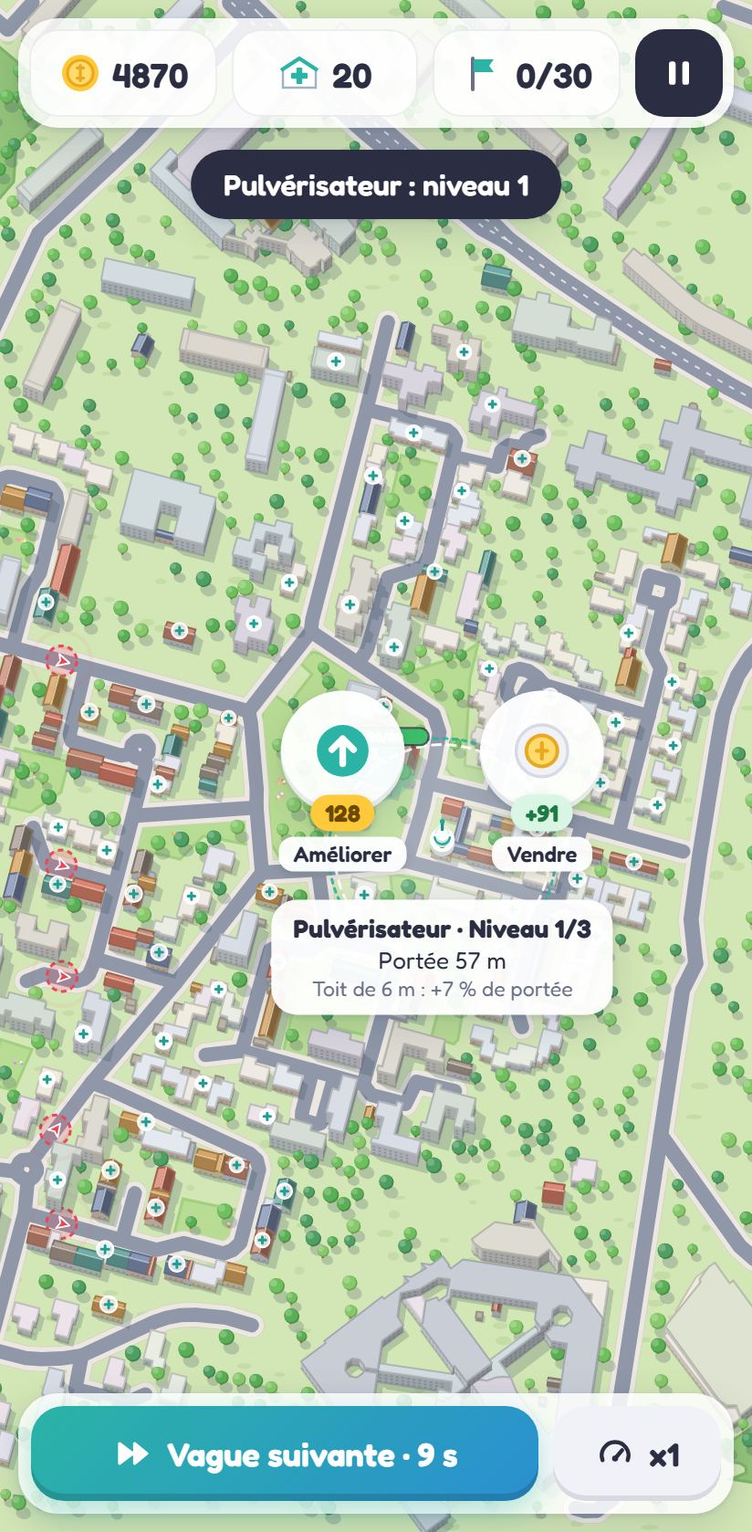
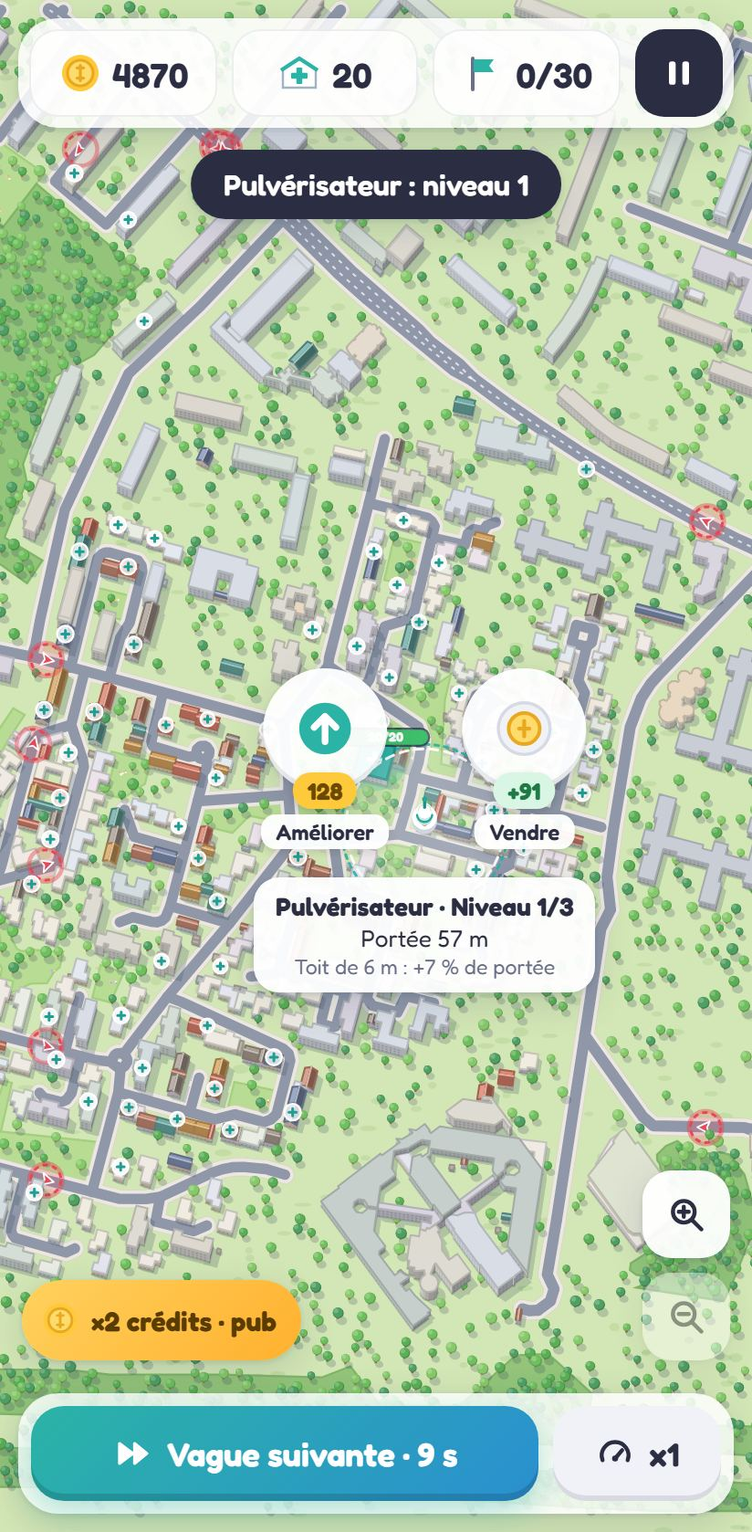
Met à jour la documentation et les captures (zoom, entrées, jalon 3)
- README : état jalon 3, APK Android, comment jouer (zoom, gemmes,
  publicités, sauvegarde), décisions du jalon 3 et du zoom / des
  entrées venant de l'extérieur, chiffres de la carte réimportée et
  simulation refaite (joueur moyen : vague 14,2 sur les cartes types).
- Configuration : osm.graphMargin, osm.entryLead, sections progression
  et ads.
- Captures : zoom, accueil avec progression, améliorations, paramètres,
  publicité de test.

diff --git a/scripts/captures.ts b/scripts/captures.ts
@@ -126,6 +126,41 @@ async function main(): Promise<void> {
     report.performance = { enemies, fps: Math.round(fps * 10) / 10, renderMs: Math.round(renderMs * 100) / 100 };
     await shot(page, '8-perf-150-virus');
 
+    // Zoom : deux crans de « + » pendant une vague.
+    await open(page, '?debug');
+    await hook(page, (h) => h.start());
+    await hook(page, (h) => h.autoBuild());
+    await hook(page, (h) => h.fastForward(16));
+    await page.getByRole('button', { name: 'Zoomer', exact: true }).click();
+    await page.getByRole('button', { name: 'Zoomer', exact: true }).click();
+    await page.waitForTimeout(300);
+    await shot(page, '9-zoom');
+
+    // Améliorations permanentes et paramètres, avec une progression déjà entamée.
+    await page.evaluate(() =>
+      localStorage.setItem(
+        'streetdefense:v1:progress',
+        JSON.stringify({ version: 1, gems: 64, upgrades: { degats: 2, credits: 1 }, records: { villagexpo: { bestWave: 17, bestScore: 52000, plays: 6, lastPlayed: '2026-10-25' } } }),
+      ),
+    );
+    await open(page, '');
+    await shot(page, '10-accueil-progression');
+    await page.getByRole('button', { name: 'Améliorations' }).click();
+    await page.waitForTimeout(300);
+    await shot(page, '11-ameliorations');
+    await page.getByRole('button', { name: 'Retour' }).click();
+    await page.getByRole('button', { name: 'Paramètres' }).click();
+    await page.getByRole('button', { name: 'Copier mon code' }).click();
+    await page.waitForTimeout(300);
+    await shot(page, '12-parametres');
+
+    // Publicité de test (web) : boost de crédits avant la première vague.
+    await open(page, '?debug');
+    await hook(page, (h) => h.start());
+    await page.getByRole('button', { name: /crédits/ }).click();
+    await page.waitForTimeout(400);
+    await shot(page, '13-pub-test');
+
     report.pageErrors = errors;
     await writeFile(join(outDir, 'rapport.json'), `${JSON.stringify(report, null, 2)}\n`);
     console.log(JSON.stringify(report, null, 2));

diff --git a/README.md b/README.md
@@ -4,7 +4,7 @@ Tower defense mobile (portrait, une main) joué dans les rues d'un vrai quartier
 Des **virus** stylisés entrent dans le quartier par toutes les rues qui y mènent ; tu les neutralises avec des **dispositifs sanitaires** installés sur les toits, pour protéger le **bâtiment central**.
 Cahier des charges complet : [`docs/cahier-des-charges.md`](docs/cahier-des-charges.md).
 
-**État : jalon 2 + révision 2.** La carte du jeu est un vrai quartier : **Villagexpo**, à Saint-Michel-sur-Orge (Essonne), importé d'OpenStreetMap. Quatre dispositifs, cinq virus, améliorations, revente, boss, équilibrage vérifié par simulation.
+**État : jalon 3.** La carte du jeu est un vrai quartier : **Villagexpo**, à Saint-Michel-sur-Orge (Essonne), importé d'OpenStreetMap, avec zoom. Quatre dispositifs, cinq virus, améliorations, revente, boss ; gemmes et améliorations permanentes, sauvegarde de la partie, écrans d'accueil, publicités de **test**, application Android.
 
 Données cartographiques **© OpenStreetMap contributors**, sous licence [ODbL](https://www.openstreetmap.org/copyright).
 
@@ -16,10 +16,23 @@ Le site est publié automatiquement par GitHub Actions à chaque modification de
 
 - **Mode test** : https://vernieradrien-gif.github.io/MapsDefender/?debug (5 000 crédits au départ, pour atteindre vite la fin de partie).
 - **Carte de démonstration** (l'ancienne carte dessinée à la main) : https://vernieradrien-gif.github.io/MapsDefender/?demo
+- Sur le web, les publicités sont remplacées par un écran « Publicité de test » de 3 secondes.
+
+### Application Android (APK de test)
+
+L'APK est construit par GitHub Actions (workflow « APK Android ») à chaque pull request et à chaque modification de `main` :
+
+1. onglet **Actions** du dépôt → workflow **APK Android** → dernière exécution réussie ;
+2. en bas de la page, artefact **streetdefense-debug-apk** (il faut être connecté à GitHub) : un zip qui contient `app-debug.apk` ;
+3. sur le téléphone, ouvrir `app-debug.apk` et autoriser l'installation depuis cette source.
+
+L'appli affiche les vraies publicités AdMob **de test** de Google (bannière « Test Ad », vidéo récompensée, interstitiel) et, dans l'Union européenne, le formulaire de consentement au premier lancement.
 
 ## Comment jouer
 
-- Touche **Jouer**. Tu as 10 s de préparation avant la vague 1.
+- **Accueil** : choisis la carte (Villagexpo ou la démo, avec ton record), puis **Jouer**. Si une partie est en cours, **Reprendre la partie** la relance à la dernière vague terminée.
+- Tu as 10 s de préparation avant la vague 1.
+- **Zoom** : pince avec deux doigts, ou utilise les boutons **+ / −** en bas à droite ; fais glisser un doigt pour déplacer la carte.
 - Touche un **toit marqué d'un ⊕** près d'une rue (ou un **socle** au sol) : un menu en arc propose les 4 dispositifs. Un dispositif trop cher est grisé.
   - **Pulvérisateur** (50) : tire vite, petits dégâts, une cible.
   - **Diffuseur** (100) : lance une capsule qui éclate en nuage désinfectant (dégâts de zone), lent.
@@ -27,11 +40,15 @@ Le site est publié automatiquement par GitHub Actions à chaque modification de
   - **Purificateur** (75) : champ qui ralentit de 40 % les virus à portée (sans dégâts).
 - Plus le toit est **haut**, plus la portée est grande (+1,2 % par mètre, jusqu'à +25 %) ; un socle ne donne aucun bonus.
 - Touche un dispositif posé : sa **portée** s'affiche (et, en pointillés, celle du niveau suivant), avec deux boutons : **Améliorer** (3 niveaux) et **Vendre** (70 % de ce qu'il t'a coûté).
-- Les virus entrent par les **cercles rouges** au bord de la carte et empruntent toutes les rues jusqu'à la **base** (toit bleu-vert à croix blanche, avec sa jauge de PV). Chaque virus qui l'atteint lui retire des PV (1 à 5 selon le virus). La base a 20 PV.
+- Les virus arrivent **de l'extérieur de la carte**, par toutes les rues qui entrent dans le quartier (un **cercle rouge** marque chaque entrée), et empruntent toutes les rues jusqu'à la **base** (toit bleu-vert à croix blanche, avec sa jauge de PV). Chaque virus qui l'atteint lui retire des PV (1 à 5 selon le virus). La base a 20 PV.
 - Les virus : **Virus** (rouge), **Variant** (orange, rapide), **Amas** (violet, résistant), **Blindé** (gris-bleu, lent, gros dégâts à la base) et, toutes les 10 vagues, le **Méga-virus**, qui se divise en 3 Amas quand on le neutralise.
 - Chaque virus neutralisé rapporte des crédits ; chaque vague terminée rapporte un bonus de 10 + 2 × numéro de vague.
-- **Vague suivante** lance la prochaine vague sans attendre ; **x1 / x2 / x3** change la vitesse ; **⏸** met en pause.
-- Victoire après la vague 30, défaite si la base n'a plus de PV. Le score s'affiche dans les deux cas.
+- Entre deux vagues, le bouton **×2 crédits · pub** double les gains de la vague suivante contre une publicité.
+- **Vague suivante** lance la prochaine vague sans attendre ; **x1 / x2 / x3** change la vitesse ; **⏸** met en pause (et permet de revenir à l'accueil, la partie est gardée).
+- Victoire après la vague 30, défaite si la base n'a plus de PV. En cas de défaite, **Continuer** (une fois par partie, contre une publicité) remet la base à 10 PV.
+- En fin de partie, tu gagnes des **gemmes** selon ton score (**Doubler** contre une publicité). Elles s'échangent sur l'écran **Améliorations** contre des bonus permanents.
+- **Paramètres** : code texte pour copier ta progression sur un autre appareil, réinitialisation, politique de confidentialité.
+- Sur Android, le bouton **Retour** met en pause ou ferme le menu ouvert ; il quitte l'appli seulement depuis l'accueil.
 
 ## Développement
 
@@ -47,19 +64,30 @@ npm run captures   # captures Playwright (Pixel 7) dans docs/captures/ et mesure
 
 `npm run captures` demande une fois `npx playwright install chromium`.
 
+Application Android (Capacitor), si l'on veut la construire sur son ordinateur (JDK 21 et SDK Android, par exemple ceux d'Android Studio) :
+
+```
+npm run build
+npx cap sync android                         # copie dist/ dans le projet Android
+cd android && ./gradlew assembleDebug        # APK dans android/app/build/outputs/apk/debug/
+```
+
 Organisation du code (détails dans [`CLAUDE.md`](CLAUDE.md)) :
 
 ```
 src/
-  game/     simulation pure : Game, vagues, économie, tourelles, ciblage, adaptation à la carte, joueurs automatiques
+  game/     simulation pure : Game, vagues, économie, tourelles, ciblage, adaptation à la carte,
+            progression permanente (gemmes), instantané de sauvegarde, joueurs automatiques
   geo/      graphe des rues et itinéraires, OSM (projection, simplification, bâtiments), assemblage de carte,
             carte réelle (maps/villagexpo.json), carte de démonstration, générateur de quartiers types
-  render/   Canvas 2D pseudo-3D : ville, virus, dispositifs, effets
-  ui/       HUD, menus radiaux (construction, amélioration/revente), écrans (DOM au-dessus du canvas)
-  ads/      interface showRewarded / showInterstitial (factice sur le web)
-  storage/  accès localStorage protégé
+  render/   Canvas 2D pseudo-3D : caméra (zoom), ville, virus, dispositifs, effets
+  ui/       HUD, gestes (pincer, glisser), menus radiaux, écrans d'accueil, améliorations, paramètres, fin de partie
+  ads/      interface des publicités : AdMob (Android, identifiants de test) ou fausse publicité (web), règles de rythme
+  storage/  localStorage protégé, progression versionnée, partie sauvegardée
   config/   balance.json : tout l'équilibrage et les règles de carte (documenté dans src/config/README.md)
   i18n/     textes (fr.json)
+public/     confidentialite.html (politique de confidentialité)
+android/    projet Android généré par Capacitor
 scripts/    import-osm.ts, simulate.ts, captures.ts (lancés avec tsx)
 docs/       cahier des charges, captures d'écran
 ```
@@ -70,20 +98,54 @@ Le jeu reçoit une **carte** (`GameMap` dans `src/game/types.ts`) : itinéraires
 
 Choix faits sans validation explicite, à revoir si besoin.
 
+### Jalon 3 : écrans, sauvegarde, publicités, Android
+
+- **Gemmes** : gagnées en fin de partie, ⌊0,18 × √score⌋. Le score grandit beaucoup plus vite que les vagues (points × numéro de vague) : une formule proportionnelle au score donnait des centaines de gemmes par partie. Avec la racine, 10 000 points donnent 18 gemmes et 40 000 points 36 ; une partie du joueur automatique « moyen » sur Villagexpo (vague 26 à 29) en rapporte 70 à 80. L'arbre complet coûte 698 gemmes, soit une dizaine de bonnes parties.
+- **Améliorations permanentes** : un arbre à deux rangs.
+  - **Désinfectant renforcé** : +5 % de dégâts par niveau, 5 niveaux (8, 16, 30, 50, 80 gemmes).
+  - **Budget de départ** : +25 crédits au départ par niveau, 5 niveaux (mêmes prix).
+  - **Dispositif offert** : un Pulvérisateur gratuit de plus par niveau, 3 niveaux (25, 50, 90), après Budget de départ niveau 2. C'est ma lecture de « +1 emplacement initial » du cahier des charges : tous les emplacements sont libres dès le départ, donc on offre plutôt le premier dispositif.
+  - **Buses longue portée** : +4 % de portée par niveau, 3 niveaux (25, 50, 90), après Désinfectant renforcé niveau 2.
+  - L'équilibrage (simulation) se fait sans amélioration permanente, comme le demande le cahier des charges.
+- **Sauvegarde** : la partie est enregistrée à chaque fin de vague (cahier des charges), et aussi quand l'appli passe en arrière-plan ou quand on revient à l'accueil depuis la pause. On reprend à l'identique (même tirage aléatoire, mêmes virus en jeu). La sauvegarde est effacée en fin de partie ; une sauvegarde abîmée ou d'une autre carte est ignorée (message).
+- **Progression** (`localStorage`, clé `streetdefense:v1:progress`) : JSON versionné avec migration : gemmes, améliorations, records par lieu (meilleure vague, meilleur score, nombre de parties), réglages, compteurs des publicités. Le choix de vitesse du jalon 1 est repris. Les champs abîmés sont réparés un par un plutôt que de tout effacer.
+- **Export / import** : code texte `SD1.<données>.<somme de contrôle>` à copier-coller dans Paramètres ; l'import remplace gemmes, améliorations et records, et garde les réglages de l'appareil.
+- **Écrans** : accueil (cartes avec record, Jouer ou Reprendre, gemmes, Améliorations, Paramètres, Aide), améliorations, paramètres (progression, confidentialité, choix publicitaires sur Android, à propos), aide, pause (Reprendre, Recommencer, Accueil), fin de partie (score, vague, gemmes, Continuer, Doubler, Rejouer, Accueil, Partager). « Cartes récentes » du cahier des charges : la liste des cartes avec leur record ; elle grandira au jalon 4 avec les adresses. Le choix du lieu par adresse et l'écran de chargement viendront au jalon 4.
+- **Partager** : partage natif du téléphone (texte avec le lieu, la vague et le score), sinon copie dans le presse-papiers. Le lien « Défier un ami » et l'image de score viendront au jalon 5.
+- **Publicités** (§ 6), toutes avec les identifiants de **test** de Google, et **jamais pendant une vague** :
+  - **Continuer** : une fois par partie, base remise à 10 PV, la vague en cours continue.
+  - **Doubler les gemmes** : une fois par partie.
+  - **Boost ×2 crédits** : proposé seulement quand aucun virus n'est en jeu ; il double les récompenses de la vague suivante.
+  - **Interstitiel** : au retour à l'accueil après une partie (pas sur « Rejouer »), au plus toutes les 3 minutes, jamais après la première partie du jour.
+  - **Bannière** : seulement sur l'accueil, sur Android.
+  - Sur le web, une fausse publicité de 3 s (« Publicité de test ») ; la fermer avant la fin ne donne pas la récompense.
+  - Le jeu reste figé tant que la publicité est ouverte, et la récompense n'est donnée qu'à sa fermeture (sur Android, l'appel d'affichage d'AdMob se termine dès la récompense, publicité encore à l'écran).
+- **Consentement RGPD** : formulaire UMP de Google au premier lancement (seulement là où il est requis, Espace économique européen). S'il n'a pas pu s'afficher (réseau lent), il est redemandé avant la publicité suivante. Il se rouvre depuis Paramètres → Mes choix publicitaires (Android).
+- **Politique de confidentialité** : `public/confidentialite.html`, publiée avec le site (https://vernieradrien-gif.github.io/MapsDefender/confidentialite.html) : stockage sur l'appareil, AdMob et consentement, Nominatim/Overpass (l'adresse saisie leur sera envoyée au jalon 4), GPS seulement à l'appui sur « Ma position », hébergement GitHub Pages.
+- **Android** : Capacitor 8, identifiant `io.github.vernieradrien.streetdefense`, portrait. Modules : `@capacitor-community/admob` (publicités et consentement), `@capacitor/app` (bouton Retour). L'identifiant d'application AdMob de test est dans `AndroidManifest.xml`. Le jeu fonctionne sans réseau (la carte est dans l'appli) ; seules les publicités en ont besoin.
+- **APK** : APK de test (debug, non signé pour le Play Store) construit par `.github/workflows/android.yml`. La version signée viendra au jalon 6 (publication). Vérifié sur un émulateur Android 15 : jeu, consentement, bannière, vidéo récompensée de test, reprise de la partie, bouton Retour. **Pas encore vérifié sur un vrai téléphone.**
+- **Version** : 0.3.0, affichée dans Paramètres.
+
+### Zoom et virus venant de l'extérieur
+
+- **Zoom** de 1× (toute la zone visible) à 4×, centré sous les doigts ; boutons + / − ; molette sur ordinateur. Glisser déplace la carte (un débord de 50 px est permis au bord). Un toucher reste un toucher tant que le doigt bouge de moins de 10 px. Pendant le geste, le décor déjà dessiné est simplement agrandi, puis redessiné net à la fin ; seul ce qui est visible est redessiné.
+- **Zone agrandie** à 500 × 900 m (au lieu de 350 × 660), grâce au zoom. La longueur moyenne des itinéraires passe à **775 m** : la cible de 600 m du cahier des charges est atteinte.
+- **Virus venant de l'extérieur** : le réseau des rues est construit sur la zone plus 220 m tout autour. Les entrées sont les bouts de ce réseau élargi, hors de la zone ; les virus démarrent 60 m avant le bord de la zone, sur la rue qui y entre, et le cercle rouge marque l'endroit où la rue franchit le bord. Les rues extérieures ne servent qu'à arriver : « toutes les rues sont empruntées » se compte sur les rues de la zone.
+- **De tous les côtés** : 10 entrées, au nord (3), à l'est (2) et à l'ouest (5), 23 itinéraires. **Aucune entrée au sud** : au sud du Villagexpo, OpenStreetMap ne montre que la voie ferrée et des champs, sans rue qui traverse. Le test de la carte exige des entrées sur au moins 3 côtés.
+- La carte de démonstration et les quartiers générés pour la simulation ont aussi des rues d'entrée qui commencent hors de la carte (100 m).
+
 ### Carte réelle : Villagexpo (Saint-Michel-sur-Orge)
 
-- **Import** : `npm run import-map` fait une requête Nominatim (« Villagexpo, Saint-Michel-sur-Orge », qui renvoie le Hall du Villagexpo, 48,6298 N / 2,3249 E) puis une seule requête Overpass sur l'emprise de la zone et de son décor, avec deux miroirs de secours (overpass.kumi.systems, overpass.private.coffee). Les deux réponses sont gardées dans `scripts/.cache/` (non versionné) ; `--offline` les rejoue sans réinterroger les serveurs. Données réelles du 24/10/2026 : 475 éléments.
-- **Zone de jeu** : un rectangle portrait de **350 × 660 m** centré sur le lieu géocodé, au lieu d'un cercle de 400 m de rayon : la carte entière tient sur l'écran d'un téléphone (environ 1,15 px par mètre sur un Pixel 7) sans zoom ni déplacement. Un décor de 70 m est dessiné autour.
-- **Longueur moyenne des itinéraires : 408 m au lieu de 600 m** (écart au cahier des charges). Une zone de 500 × 940 m atteindrait 653 m, mais l'échelle tomberait à 0,8 px par mètre, trop petit sans zoom. Le zoom et le déplacement de la carte sont à prévoir au jalon 4, qui pourra alors agrandir la zone. En attendant, l'adaptation à la carte compense (moins de virus, moins de crédits au départ).
+- **Import** : `npm run import-map` fait une requête Nominatim (« Villagexpo, Saint-Michel-sur-Orge », qui renvoie le Hall du Villagexpo, 48,6298 N / 2,3249 E) puis une seule requête Overpass sur l'emprise de la zone, de son décor et du réseau extérieur, avec deux miroirs de secours (overpass.kumi.systems, overpass.private.coffee). Les deux réponses sont gardées dans `scripts/.cache/` (non versionné) ; `--offline` les rejoue sans réinterroger les serveurs. Données réelles du 25/10/2026 : 1 451 éléments.
+- **Zone de jeu** : un rectangle portrait de **500 × 900 m** centré sur le lieu géocodé, au lieu d'un cercle de 400 m de rayon : à 1×, la carte entière tient sur l'écran d'un téléphone ; le zoom permet de voir le détail. Un décor de 90 m est dessiné autour.
 - **Base** : le bâtiment le plus imposant ou central (score = emprise × hauteur / (1 + (distance au centre / 80 m)²), parmi les bâtiments proches d'une rue) : c'est le **Hall du Villagexpo**. Il est relié à la rue la plus proche en coupant le tronçon à l'endroit le plus proche (plutôt qu'au carrefour le plus proche, parfois à plus de 100 m).
-- **Entrées** : les 5 extrémités de rues coupées par le bord de la zone. 12 itinéraires.
-- **Toutes les rues sont empruntées… sauf les impasses** : 34 tronçons sur 48 (2,1 km sur 2,8 km de réseau). Les 14 autres sont des impasses de plus de 30 m (Villagexpo en compte beaucoup) : on ne peut pas les emprunter sans demi-tour, donc sans repasser par un carrefour. Elles restent dessinées. `coverRoutes` cherche un itinéraire exact (calcul de flot) quand le plus court accès coupe la suite : seules les rues réellement impossibles à emprunter restent de côté (vérifié par un test exhaustif sur 60 quartiers aléatoires).
-- **Simplification (§ 4)** : plus grande composante connexe, impasses de moins de 30 m supprimées, Douglas-Peucker à 3 m sur les itinéraires. La fusion des nœuds à moins de 8 m ne fusionne que des carrefours reliés par une rue (deux impasses voisines non reliées ne sont pas raccordées). Les entrées au bord de la zone ne sont jamais déplacées ni supprimées. Les rues dessinées gardent leur tracé fin (0,5 m).
-- **Bâtiments réels** : 1 216 bâtiments sur 1 230 sont étiquetés `building=yes`, et seuls 4 ont un nombre d'étages. Le type est donc déduit des étiquettes, puis du nom (école, gymnase, hall, église… = bâtiment public ; « Résidence » = immeuble ; « Centre commercial » = commerce), puis de la surface : abri sous 25 m², maison sous 250 m², immeuble sous 1 500 m², grand bâtiment au-delà. Hauteur : `height`, sinon niveaux × 3 m, sinon 6 m (maison), 12 m (immeuble), 9 m (public), 7 m (commerce), 2,6 m (abri). Une maison dont l'emprise remplit au moins 88 % de son rectangle englobant a un toit à deux pans posé sur ce rectangle ; toutes les autres formes gardent leur vraie emprise avec un toit plat. Les abris de jardin n'accueillent pas de tourelle.
+- **Toutes les rues sont empruntées… sauf les impasses** : 60 tronçons sur 84 dans la zone (5,2 km sur 6,7 km de réseau). Les autres sont des impasses de plus de 30 m (Villagexpo en compte beaucoup) : on ne peut pas les emprunter sans demi-tour, donc sans repasser par un carrefour. Elles restent dessinées. `coverRoutes` cherche un itinéraire exact (calcul de flot) quand le plus court accès coupe la suite : seules les rues réellement impossibles à emprunter restent de côté (vérifié par un test exhaustif sur 60 quartiers aléatoires).
+- **Simplification (§ 4)** : plus grande composante connexe, impasses de moins de 30 m supprimées, Douglas-Peucker à 3 m sur les itinéraires. La fusion des nœuds à moins de 8 m ne fusionne que des carrefours reliés par une rue (deux impasses voisines non reliées ne sont pas raccordées). Les nœuds au bord de la zone et au-delà ne sont jamais déplacés ni supprimés. Les rues dessinées gardent leur tracé fin (0,5 m).
+- **Bâtiments réels** : presque tous sont étiquetés `building=yes`, et très peu ont un nombre d'étages. Le type est donc déduit des étiquettes, puis du nom (école, gymnase, hall, église… = bâtiment public ; « Résidence » = immeuble ; « Centre commercial » = commerce), puis de la surface : abri sous 25 m², maison sous 250 m², immeuble sous 1 500 m², grand bâtiment au-delà. Hauteur : `height`, sinon niveaux × 3 m, sinon 6 m (maison), 12 m (immeuble), 9 m (public), 7 m (commerce), 2,6 m (abri). Une maison dont l'emprise remplit au moins 88 % de son rectangle englobant a un toit à deux pans posé sur ce rectangle ; toutes les autres formes gardent leur vraie emprise avec un toit plat. Les abris de jardin n'accueillent pas de tourelle.
 - **Emplacements** : 60 toits (le maximum), au milieu du toit même pour un bâtiment en L ou en U.
-- **Arbres** : générés (718), pas importés.
-- **Fichier** : `src/geo/maps/villagexpo.json`, 146 Ko (28 Ko compressé), coordonnées arrondies à 10 cm, avec la requête, la date des données et la licence. La carte est validée au chargement ; si elle est invalide, la carte de démonstration la remplace (message sur l'accueil). `?demo` force la carte de démonstration.
-- **Mention « © OpenStreetMap contributors »** sur l'écran d'accueil et dans ce README.
+- **Décor** : 530 bâtiments, 83 rues, 20 surfaces ; arbres générés (1 855), pas importés.
+- **Fichier** : `src/geo/maps/villagexpo.json`, 249 Ko, coordonnées arrondies à 10 cm, avec la requête, la date des données et la licence. La carte est validée au chargement ; si elle est invalide, la carte de démonstration la remplace (message sur l'accueil). `?demo` force la carte de démonstration.
+- **Mention « © OpenStreetMap contributors »** sur l'écran d'accueil, dans Paramètres → À propos et dans ce README.
 
 ### Révision 2 : thème sérieux
 
@@ -98,22 +160,21 @@ Choix faits sans validation explicite, à revoir si besoin.
 
 - **Améliorations** : passer au niveau n (1 à 3) coûte coût × 1,6^n (Pulvérisateur : 80, 128, 205). Chaque niveau donne +60 % de dégâts, +15 % de cadence et +6 % de portée ; pour le Purificateur, +10 % de portée et 5 points de ralentissement en plus. **Revente** : 70 % du total investi (pose + améliorations), arrondi à l'inférieur.
 - **Boss** : un Méga-virus ferme la marche des vagues 10, 20 et 30. Ses PV suivent la même croissance que les autres virus (×1,12 par vague). Il retire 5 PV s'il atteint la base. Neutralisé, il se divise en 3 Amas qui repartent de sa position ; la vague n'est soldée qu'une fois les fragments résolus.
-- **Adaptation à la carte** : facteur = longueur moyenne des itinéraires / 600 m, borné entre 0,75 et 1,5. Il multiplie le nombre de virus par vague et l'argent de départ (arrondi à 5). Villagexpo (408 m) : facteur 0,75, soit 150 crédits au départ.
-- **Menus** : construction par un menu radial en arc (4 boutons, nom sous chacun) ; les rôles et les prix sont rappelés sur l'écran d'accueil. Menu radial d'une tourelle posée : Améliorer, Vendre, et une fiche (niveau, portée, bonus de hauteur).
+- **Adaptation à la carte** : facteur = longueur moyenne des itinéraires / 600 m, borné entre 0,75 et 1,5. Il multiplie le nombre de virus par vague et l'argent de départ (arrondi à 5). Villagexpo (775 m) : facteur 1,29, soit 260 crédits au départ.
+- **Menus** : construction par un menu radial en arc (4 boutons, nom sous chacun) ; les rôles et les prix sont rappelés dans l'aide. Menu radial d'une tourelle posée : Améliorer, Vendre, et une fiche (niveau, portée, bonus de hauteur).
 - **Simulation** (`npm run simulate`) : 20 quartiers types générés (6 grilles, 5 quartiers denses d'immeubles, 5 zones rurales clairsemées avec socles, 4 grilles à diagonales ; 1 à 4 entrées ; zones de 300 × 560 à 400 × 740 m), plus Villagexpo, 3 parties par carte et par joueur.
   - Joueur **moyen** : il pose dès qu'il peut sur un emplacement pris au hasard parmi les 35 % les mieux placés, alterne les dispositifs selon un cycle fixe, améliore de temps en temps, et n'agit qu'une fois toutes les 2 s.
   - Joueur **bon** : il choisit à chaque fois l'action la plus rentable (couverture des itinéraires × dégâts utiles / coût), quitte à économiser.
-- **Réglages issus de la simulation** : récompenses 8 / 7 / 15 / 35 / 40 crédits ; vitesses 35 / 58 / 38 / 21 / 16 m/s ; 6 virus à la vague 1, puis 0,9 de plus par vague. Résultat sur les 20 cartes types :
+- **Réglages issus de la simulation** : récompenses 8 / 7 / 15 / 35 / 40 crédits ; vitesses 35 / 58 / 38 / 21 / 16 m/s ; 6 virus à la vague 1, puis 0,9 de plus par vague. Résultat sur les 20 cartes types (simulation refaite au jalon 3, rues d'entrée venant de l'extérieur) :
 
   | Joueur | Vague atteinte (moyenne) | Victoires |
   |---|---|---|
-  | moyen | **13,4** (cible 12 à 15) | 0 % |
-  | bon | 24,9 | 8 % |
+  | moyen | **14,2** (cible 12 à 15) | 0 % |
+  | bon | 26,1 | 2 % |
 
-  Écarts notés : la difficulté dépend beaucoup de la carte (une seule entrée : vague 18 à 24 pour le joueur moyen ; 4 entrées : vague 9 à 10). **Sur Villagexpo, le joueur moyen va plus loin (vague 20 en moyenne)** : ses itinéraires courts se rejoignent tous autour du Hall, entouré de toits. L'adaptation à la carte ne tient compte que de la longueur des itinéraires, comme le demande le cahier des charges ; la densité d'emplacements pourrait s'y ajouter au jalon 4. Le joueur « bon » automatique joue mal une carte rurale (vague 11) : c'est une limite du joueur automatique, pas de la carte.
+  Écarts notés : la difficulté dépend beaucoup de la carte (une seule entrée : vague 16 à 24 pour le joueur moyen ; 4 entrées : vague 8 à 13). **Sur Villagexpo, le joueur moyen va beaucoup plus loin (vague 25 en moyenne)**, malgré ses 10 entrées : tous les itinéraires se rejoignent autour du Hall, entouré de toits, où quelques dispositifs couvrent tous les virus. Augmenter le nombre de virus ou réduire les emplacements changeait peu le résultat. L'adaptation à la carte ne tient compte que de la longueur des itinéraires, comme le demande le cahier des charges ; un critère d'« entonnoir » près de la base pourrait s'y ajouter au jalon 4, quand les cartes viendront de n'importe quelle adresse. La carte de démonstration est elle aussi très facile (les joueurs automatiques la gagnent) : elle sert de carte de secours et de découverte.
 - **Mode test** (`?debug`) : en plus des 5 000 crédits, la page expose `window.streetDefense` (avancer le temps, faire construire le joueur automatique, test de charge, coût d'une image), utilisé par `npm run captures`.
-- **Captures et fluidité** : `docs/captures/` (profil Pixel 7 de Playwright : 412 × 839 px visibles). Avec 150 à 176 virus à l'écran, Chromium sans affichage (sur PC) tient **60 images/s**. Une image coûte 12 ms dans ce Chromium, qui dessine sans carte graphique ; elle coûte 2,1 ms (0,14 ms sans virus) dans un navigateur avec accélération graphique. **Pas encore vérifié sur un vrai téléphone.**
-- **Pas encore faits** (jalon 3) : gemmes, améliorations permanentes, sauvegarde de la partie, publicités.
+- **Captures et fluidité** : `docs/captures/` (profil Pixel 7 de Playwright : 412 × 839 px visibles). Avec 150 à 176 virus à l'écran, Chromium sans affichage (sur PC) tient **59 images/s**. Une image coûte 14 ms dans ce Chromium, qui dessine sans carte graphique ; elle coûte environ 2 ms dans un navigateur avec accélération graphique. **Pas encore vérifié sur un vrai téléphone.**
 
 ### Révision 1 : ville miniature
 
@@ -130,5 +191,5 @@ Décisions toujours valables : rendu pseudo-3D sur Canvas 2D sans moteur 3D, dé
 - **Fluidité** : la simulation tourne à 60 pas/s fixes et l'affichage interpole les positions (écrans 90/120 Hz).
 - **Vitesse** : le choix x1/x2/x3 est mémorisé sur l'appareil.
 - **Erreurs** : en cas de plantage, le message s'affiche à l'écran.
-- **Pas encore de PWA installable** (manifeste, mode hors ligne) : prévu aux jalons 3 et 5.
-- **Outils** : Vite 8, TypeScript 7, Vitest 5, Node 22 ; tsx pour les scripts, Playwright pour les captures.
+- **Pas encore de PWA installable** (manifeste, mode hors ligne sur le web) : prévu au jalon 5. L'application Android du jalon 3 fonctionne déjà sans réseau.
+- **Outils** : Vite 8, TypeScript 7, Vitest 5, Node 22 ; tsx pour les scripts, Playwright pour les captures, Capacitor 8 pour Android.

diff --git a/src/config/README.md b/src/config/README.md
@@ -126,9 +126,11 @@ Construction d'une carte à partir d'OpenStreetMap (`npm run import-map`) ou d'u
 
 | Champ | Rôle |
 |---|---|
-| `zoneWidth`, `zoneHeight` | Zone de jeu (m), centrée sur le lieu (350 × 660, portrait). |
-| `decorMargin` | Décor dessiné autour de la zone (m). |
-| `entryMargin` | Une extrémité de rue à moins de cette distance du bord de la zone est une entrée (m). |
+| `zoneWidth`, `zoneHeight` | Zone de jeu (m), centrée sur le lieu (500 × 900, portrait ; le joueur zoome pour voir le détail). |
+| `decorMargin` | Décor dessiné autour de la zone (m). Au moins `entryLead`, pour que l'arrivée des virus soit dessinée. |
+| `graphMargin` | Le réseau des rues est construit sur la zone plus cette marge (220 m) : les virus arrivent par les rues qui viennent de l'extérieur. Au moins `entryLead`. |
+| `entryLead` | Les virus apparaissent à cette distance avant le bord de la zone, sur la rue qui y entre (60 m). Une entrée est un bout du réseau élargi situé au moins à `entryLead` / 2 hors de la zone. |
+| `entryMargin` | Les nœuds du réseau à moins de cette distance du bord de la zone, ou au-delà, ne sont jamais fusionnés ni supprimés par la simplification (m). |
 | `streetWidths` | Largeur de chaussée (m) par type de voie OSM. |
 | `graphTolerance` | Distance sous laquelle deux extrémités de rues sont raccordées (m). |
 | `mergeDistance` | Deux carrefours reliés par un tronçon plus court sont fusionnés (8 m). |
@@ -145,6 +147,36 @@ Construction d'une carte à partir d'OpenStreetMap (`npm run import-map`) ou d'u
 | `baseMaxStreetDistance` | La base doit être à moins de cette distance d'une rue (m). |
 | `paletteCount` | Nombre de variantes de couleurs des bâtiments. |
 | `trees` | Arbres décoratifs : tentatives par hectare (`density`, `parkDensity`, `woodDensity`), écart minimal (`spacing`), rayon du feuillage (`radius`), variantes de couleurs (`paletteCount`). |
+
+## `progression`
+
+Monnaie permanente (gemmes) et arbre d'améliorations permanentes. L'équilibrage des vagues (`npm run simulate`) se fait sans ces bonus.
+
+| Champ | Rôle |
+|---|---|
+| `gemFactor` | Gemmes gagnées en fin de partie = ⌊`gemFactor` × √score⌋ (0,18 : 10 000 points → 18 gemmes). |
+| `upgrades` | Liste des améliorations : `id`, `maxLevel`, `costs` (prix en gemmes de chaque niveau, un par niveau), `effect` (effet par niveau), `requires` (prérequis `{ id, level }` ou `null`). |
+
+Effet selon l'`id` (les noms affichés sont dans `src/i18n/fr.json`, clés `upgrade.<id>.name`) :
+
+| `id` | Effet par niveau |
+|---|---|
+| `degats` | Dégâts de tous les dispositifs × (1 + `effect`) (0,05 = +5 %). |
+| `portee` | Portée × (1 + `effect`) (0,04 = +4 %). |
+| `credits` | `effect` crédits de plus au départ (après l'adaptation à la carte). |
+| `offert` | `effect` Pulvérisateur(s) que le joueur pose gratuitement (le prix revient à la normale ensuite). |
+
+## `ads`
+
+Effets des publicités récompensées et rythme des interstitiels. Jamais de publicité pendant une vague (règle du code, pas un réglage).
+
+| Champ | Rôle |
+|---|---|
+| `continueHp` | « Continuer » après une défaite (une fois par partie) : PV rendus à la base (10), sans dépasser `base.hp`. |
+| `gemsMultiplier` | « Doubler » en fin de partie : multiplicateur des gemmes gagnées (2). |
+| `boostMultiplier` | Boost proposé entre deux vagues : multiplicateur des crédits gagnés pendant la vague suivante (2). |
+| `interstitialMinSeconds` | Délai minimal entre deux interstitiels (180 s). Jamais après la première partie du jour. |
+| `fakeAdSeconds` | Durée de la fausse publicité affichée sur le web (3 s). |
 
 ## `debug`
 

diff --git a/CLAUDE.md b/CLAUDE.md
@@ -59,4 +59,8 @@ npm run build    # vérification TypeScript (code + scripts) + build de producti
 npm run import-map  # réimporte la carte réelle (--offline : rejoue scripts/.cache)
 npm run simulate    # équilibrage : parties automatiques sur 20 quartiers types
 npm run captures    # captures Playwright (Pixel 7) dans docs/captures/
+npx cap sync android                   # après le build : copie dist/ dans le projet Android
+cd android && ./gradlew assembleDebug  # APK de test (JDK 21 + SDK Android) ; la CI le construit aussi
 ```
+
+Publicités : identifiants AdMob de **test** uniquement (`src/ads/admob.ts`, `android/app/src/main/AndroidManifest.xml`).
